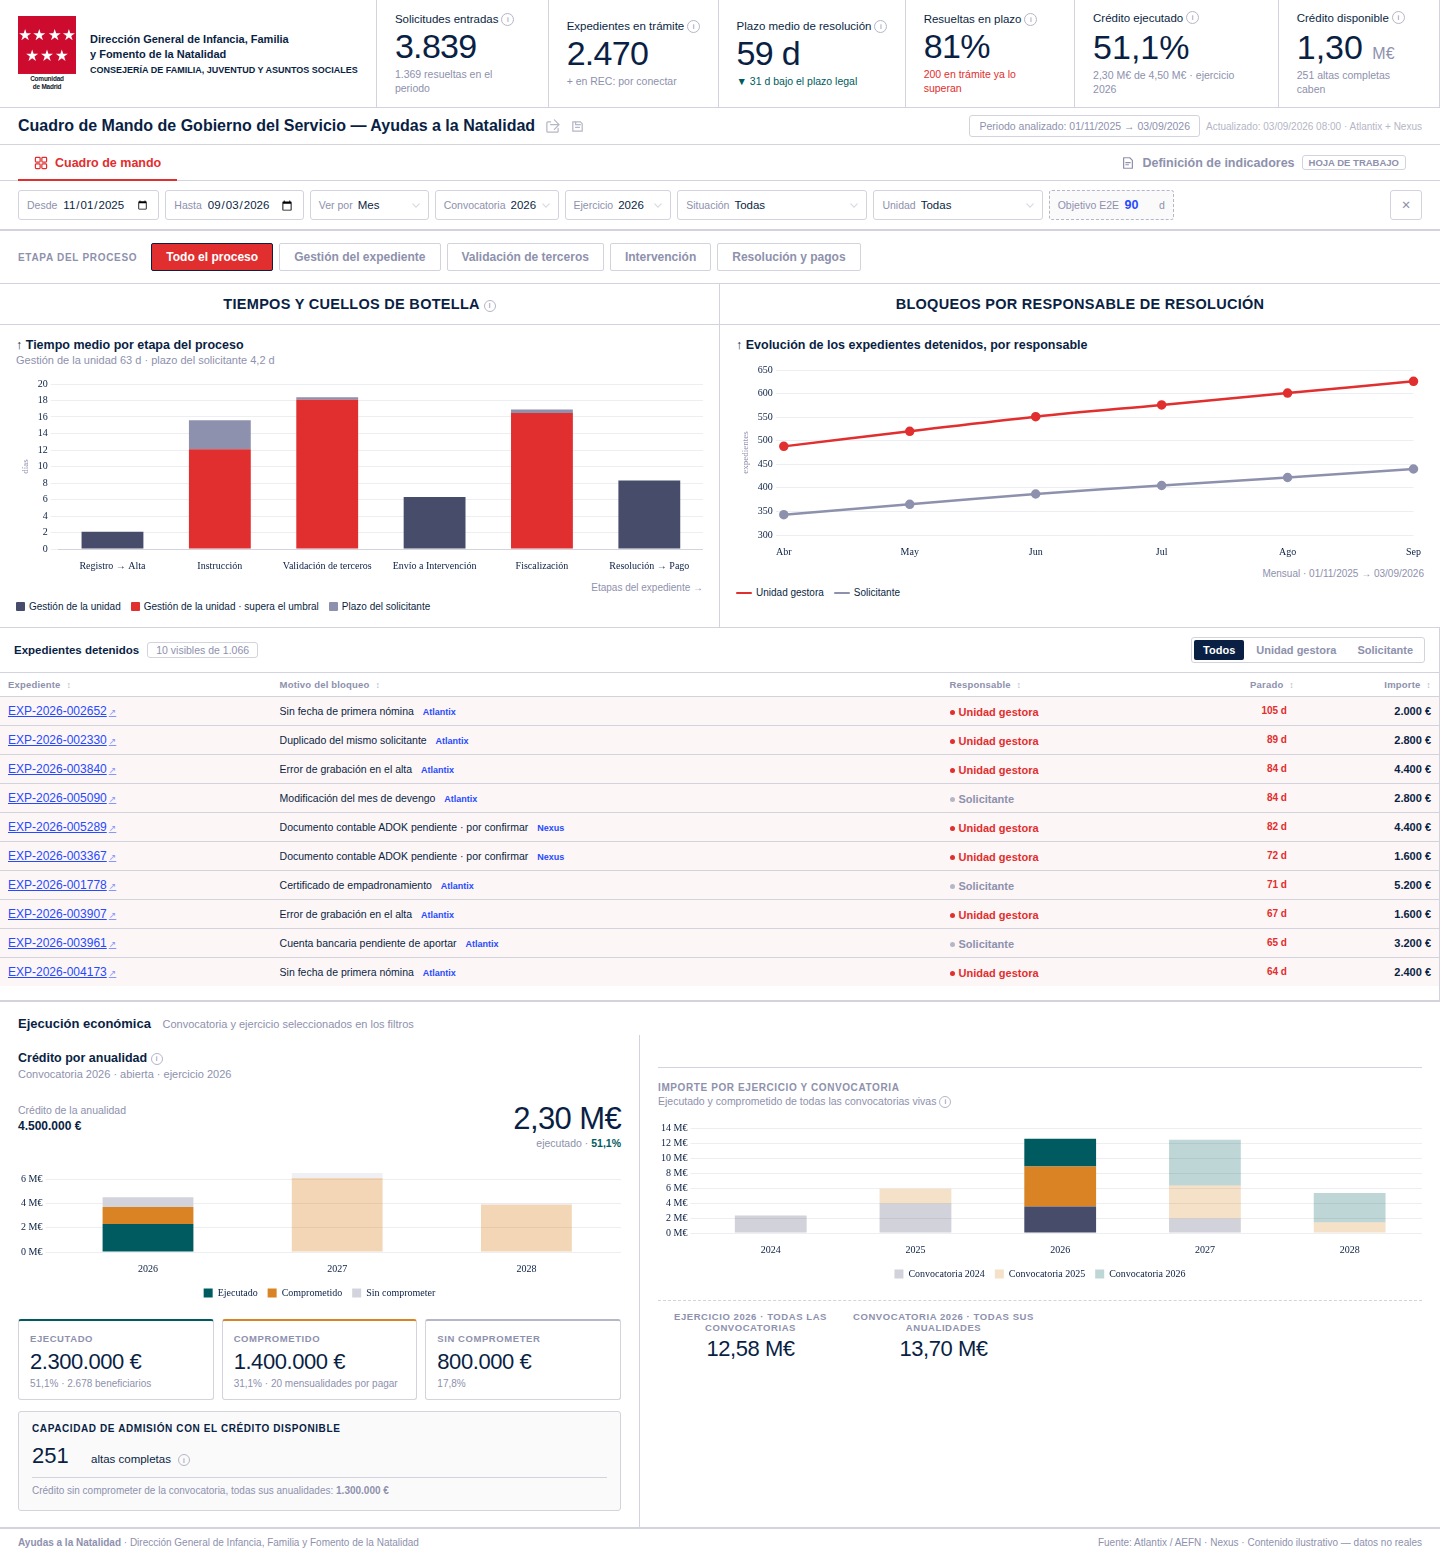
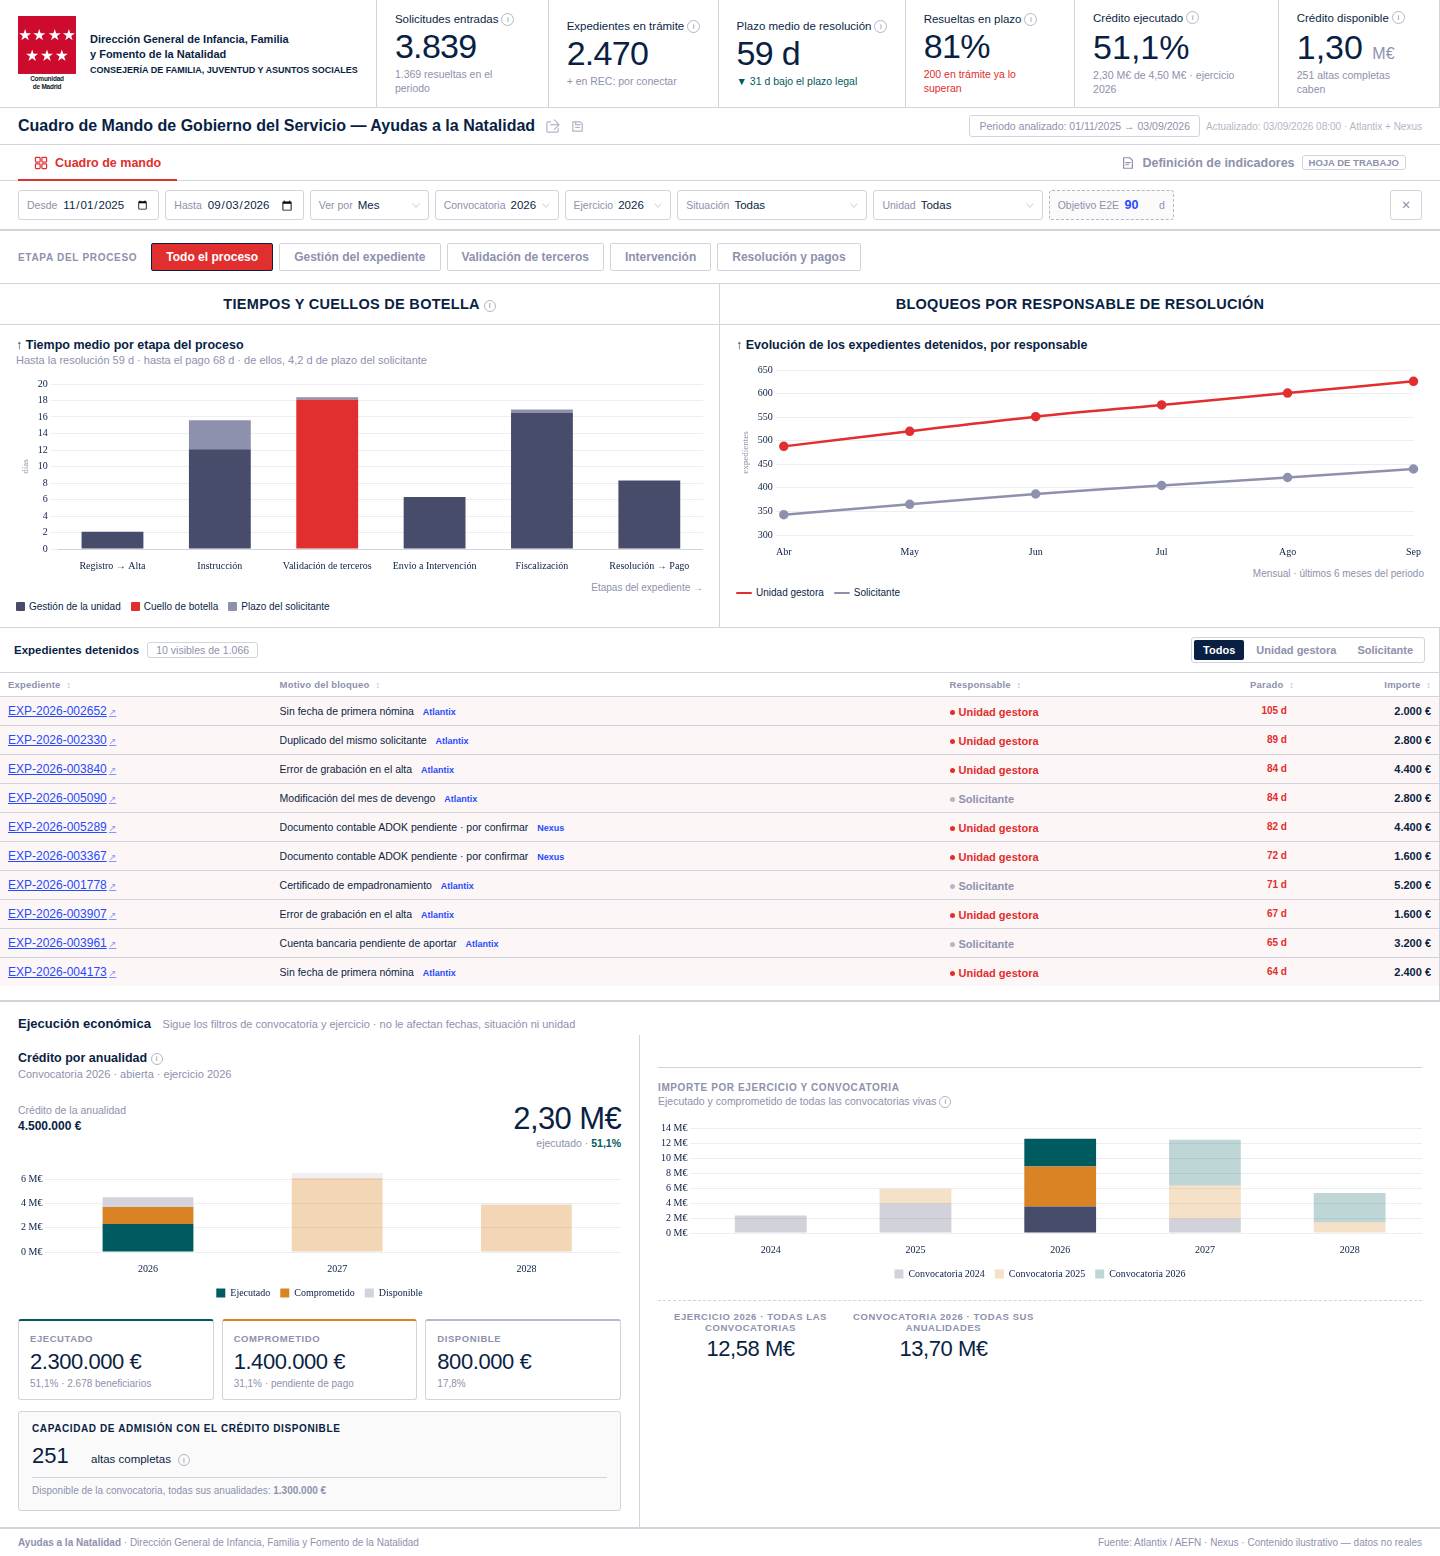
Natalidad v9: auditoría de coherencia (cuello de botella, plazos que cuadran con la cabecera, crédito disponible, hoja de indicadores)
Claude-Session: https://claude.ai/code/session_012PCcGQXYr4PR8xb2pBrhox

diff --git a/mockups/MockupNatalidad_v9.html b/mockups/MockupNatalidad_v9.html
@@ -975,7 +975,7 @@ th.col-focus{background:#FAFAFB!important;color:#0A1F44!important;}
       <div class="chart-xlabel" id="c2X"></div>
       <div class="legend">
         <div class="leg"><div class="leg-sq" style="background:#464C6A;"></div>Gestión de la unidad</div>
-        <div class="leg"><div class="leg-sq" style="background:var(--red);"></div>Gestión de la unidad · supera el umbral</div>
+        <div class="leg"><div class="leg-sq" style="background:var(--red);"></div>Cuello de botella</div>
         <div class="leg"><div class="leg-sq" style="background:#8E91AD;"></div>Plazo del solicitante</div>
       </div>
     </div>
@@ -1093,7 +1093,7 @@ th.col-focus{background:#FAFAFB!important;color:#0A1F44!important;}
 <!-- ══════════ FOOTER ══════════ -->
 </div><!-- /cmBody -->
 
-<div class="blk-ttl">Ejecución económica <span>Convocatoria y ejercicio seleccionados en los filtros</span></div>
+<div class="blk-ttl">Ejecución económica <span>Sigue los filtros de convocatoria y ejercicio · no le afectan fechas, situación ni unidad</span></div>
 
 
   <div class="fbar" id="fbarECO" style="display:none;">
@@ -1414,7 +1414,7 @@ const TIP = {
  'Plazo medio de resolución':'Días desde la entrada en el registro del órgano competente hasta la resolución, sobre los expedientes ya resueltos. Plazo legal: 90 días. Mientras REC no esté conectado se mide desde la recepción en AFN.',
  'Resueltas en plazo':'Expedientes resueltos dentro del plazo legal fijado en los filtros (90 días por defecto). Debajo, los que siguen en trámite y ya lo han superado: son los que más urge mover.',
  'Crédito ejecutado':'Ejecutado sobre el crédito de la anualidad elegida en el filtro Ejercicio, o de toda la convocatoria si no se elige ejercicio. Pendiente de confirmar con gestión económica si «ejecutado» es la obligación reconocida o el pago.',
- 'Crédito disponible':'Crédito de la convocatoria que no está ni pagado ni comprometido. Debajo, cuántas altas completas caben: disponible entre lo que cuesta una ayuda entera (24 mensualidades).',
+ 'Crédito disponible':'Crédito de la convocatoria, en todas sus anualidades, que no está ni ejecutado ni comprometido. Es el mismo dato que «Disponible» en el bloque de ejecución económica. Debajo, cuántas altas completas caben: disponible entre lo que cuesta una ayuda entera (24 mensualidades).',
  'Dentro del objetivo':'Expedientes ya terminados que se resolvieron dentro del objetivo fijado en la barra de filtros. Por defecto es el plazo máximo normativo: 90 días desde la entrada de la solicitud en el registro del órgano competente.',
  'Dentro de objetivo':'Expedientes ya terminados cuyo plazo no superó el objetivo fijado en la barra de filtros. «En riesgo» son los que se acercan a él sin haberlo superado.',
  'Expedientes detenidos':'Expedientes sin ningún cambio de estado desde hace más días de lo razonable para su etapa. Debajo, los que la unidad puede desatascar por sí misma. Los del solicitante son casi todos requerimientos: de 807 requeridos en la revisión, 575 subsanan y 232 desisten.',
@@ -1740,11 +1740,18 @@ function renderCM(){
   const TR_CORTO = ['Registro → Alta','Instrucción','Validación de terceros','Envío a Intervención','Fiscalización','Resolución → Pago'];
   chTiempo.data.labels = trs.map(i => stageKey==='all' ? TR_CORTO[i] : TRAMOS[i]);
   chTiempo.data.datasets[0].data = gestDias;
-  chTiempo.data.datasets[0].backgroundColor = gestDias.map((v,i)=>(v+espDias[i])>=uAl?RED:SLA);
+  const totTr = gestDias.map((v,i)=>v+espDias[i]), maxTr = Math.max(...totTr);
+  chTiempo.data.datasets[0].backgroundColor = totTr.map(v=> v===maxTr ? RED : SLA);
   chTiempo.data.datasets[1].data = espDias;
   chTiempo.update();
-  set('c2Sub','Gestión de la unidad '+(durTot-espTot).toFixed(0)+' d · plazo del solicitante '
-    +espTot.toFixed(1).replace('.',',')+' d');
+  if(stageKey==='all'){
+    const hastaRes = totTr.slice(0,5).reduce((a,b)=>a+b,0);
+    set('c2Sub','Hasta la resolución '+hastaRes.toFixed(0)+' d · hasta el pago '+durTot.toFixed(0)+' d · de ellos, '
+      +espTot.toFixed(1).replace('.',',')+' d de plazo del solicitante');
+  } else {
+    set('c2Sub','Gestión de la unidad '+(durTot-espTot).toFixed(0)+' d · plazo del solicitante '
+      +espTot.toFixed(1).replace('.',',')+' d');
+  }
 
   /* ── sección 3 · detenidos por responsable ── */
   set('s3Kpis', skHtml([
@@ -1879,7 +1886,7 @@ function initAnu(){
     data:{labels:[],datasets:[
       {label:'Ejecutado',data:[],backgroundColor:'#005B60',stack:'a',barPercentage:.6},
       {label:'Comprometido',data:[],backgroundColor:'#D98324',stack:'a',barPercentage:.6},
-      {label:'Sin comprometer',data:[],backgroundColor:'#D3D3DD',stack:'a',barPercentage:.6}]},
+      {label:'Disponible',data:[],backgroundColor:'#D3D3DD',stack:'a',barPercentage:.6}]},
     options:{responsive:true,maintainAspectRatio:false,animation:false,
       plugins:{legend:{position:'bottom',labels:{boxWidth:9,boxHeight:9,padding:10,font:{family:'Inter',size:10},color:'#0A1F44'}},
         tooltip:{callbacks:{title:it=>'Anualidad '+it[0].label,label:c=>' '+c.dataset.label+': '+M2(c.raw*1e6)}}},
@@ -1929,16 +1936,16 @@ function renderConv(){
   const pend=DUR-c.pagadas;
   document.getElementById('cvCards').innerHTML =
     `<div class="bc bc-ej"><span class="bc-l">Ejecutado</span><b>${eur(A.eje)}</b><em>${pct(A.eje)} · ${nfmt(c.cobrando)} beneficiarios</em></div>`+
-    `<div class="bc bc-cm"><span class="bc-l">Comprometido</span><b>${eur(A.com)}</b><em>${pct(A.com)} · ${pend} mensualidades por pagar</em></div>`+
-    `<div class="bc bc-dp"><span class="bc-l">Sin comprometer</span><b>${eur(disp)}</b><em>${pct(disp)}</em></div>`;
+    `<div class="bc bc-cm"><span class="bc-l">Comprometido</span><b>${eur(A.com)}</b><em>${pct(A.com)} · pendiente de pago</em></div>`+
+    `<div class="bc bc-dp"><span class="bc-l">Disponible</span><b>${eur(disp)}</b><em>${pct(disp)}</em></div>`;
   const cap=document.getElementById('cvCap'), foot=document.getElementById('cvCapFoot');
   if(!c.admite){
-    cap.innerHTML = `<div class="cap-row" style="color:var(--g500);">Convocatoria cerrada a altas nuevas: sigue pagando a sus ${nfmt(c.ben)} beneficiarios hasta ${EJER[Math.max(...idx)]}. Quedan <strong style="color:var(--g900)">${eur(dispConv)}</strong> sin comprometer.</div>`;
-    foot.innerHTML = 'Destino del crédito sin comprometer de convocatorias cerradas: por confirmar con gestión económica.';
+    cap.innerHTML = `<div class="cap-row" style="color:var(--g500);">Convocatoria cerrada a altas nuevas: sigue pagando a sus ${nfmt(c.ben)} beneficiarios hasta ${EJER[Math.max(...idx)]}. Quedan <strong style="color:var(--g900)">${eur(dispConv)}</strong> disponibles.</div>`;
+    foot.innerHTML = 'Destino del disponible de convocatorias cerradas: por confirmar con gestión económica.';
   } else {
     cap.innerHTML = `<div class="cap-row"><b>${nfmt(Math.floor(dispConv/COSTE_COMPLETO))}</b> altas completas `+
-      `<i class="ii" data-t="Crédito de la convocatoria sin comprometer (${eur(dispConv)}) entre lo que cuesta una ayuda entera (${MENS} € × ${DUR} = ${eur(COSTE_COMPLETO)}). Importe mensual por confirmar.">i</i></div>`;
-    foot.innerHTML = `Crédito sin comprometer de la convocatoria, todas sus anualidades: <strong>${eur(dispConv)}</strong>`;
+      `<i class="ii" data-t="Disponible de la convocatoria (${eur(dispConv)}) entre lo que cuesta una ayuda entera (${MENS} € × ${DUR} = ${eur(COSTE_COMPLETO)}). Importe mensual por confirmar.">i</i></div>`;
+    foot.innerHTML = `Disponible de la convocatoria, todas sus anualidades: <strong>${eur(dispConv)}</strong>`;
   }
   renderEjer();
   if(typeof renderCM==='function' && document.getElementById('kpiConv')) renderKpiCredito();
@@ -2019,8 +2026,8 @@ const chTiempo = new Chart(document.getElementById('cTiempo'), {
 });
 const chBloq = new Chart(document.getElementById('cBloq'), {
   type:'line', data:{ labels:[], datasets:[
-    { data:[], borderColor:RED, backgroundColor:RED, borderWidth:2.5, pointRadius:3.5, tension:.35, fill:false },
-    { data:[], borderColor:ORA, backgroundColor:ORA, borderWidth:2.5, pointRadius:3.5, tension:.35, fill:false }]},
+    { label:'Unidad gestora', data:[], borderColor:RED, backgroundColor:RED, borderWidth:2.5, pointRadius:3.5, tension:.35, fill:false },
+    { label:'Solicitante', data:[], borderColor:ORA, backgroundColor:ORA, borderWidth:2.5, pointRadius:3.5, tension:.35, fill:false }]},
   options:{ ...baseOpts, interaction:{mode:'index',intersect:false},
     scales:{ x:{...axis, grid:{display:false}}, y:{...axis, title:{display:true,text:'expedientes',font:{family:'Inter',size:9},color:'#8E91AD'}} } }
 });
@@ -2100,7 +2107,7 @@ function legHtml(arr,line){
    [actividad, tiempo medio, tiempo mediano, % de expedientes que pasan por ella, veces por expediente,
     repeticiones por expediente afectado: cerca de 1 = retrabajo repartido; alto = pocos casos que se repiten mucho] */
 const ACT = {
-  gestion: [['Recepción de la solicitud',1.4,1.0,1,1.00,1],['Revisión de documentación',6.2,4.0,1,1.18,1.1],
+  gestion: [['Recepción de la solicitud',1.4,1.0,1,1.00,1],['Revisión de documentación',6.2,4.0,1,1.15,1.0],
             ['Requerimiento',3.1,2.0,.21,1.12,1.2],['Subsanación',18.2,14.0,.15,1.30,1.3],['Desistimiento',10.5,10.0,.06,1.00,1],
             ['Denegación',2.8,2.0,.08,1.00,1],['Propuesta favorable',2.3,1.5,.86,1.09,4.5]],
   terceros: [['Solicitud de alta de tercero',1.8,1.2,1,1.10,6.0],['Respuesta de Nexus',4.2,3.0,1,1.21,1.1],
@@ -2157,6 +2164,7 @@ function vistaEtapa(){
   const todo = stageKey==='all';
   const sec=document.querySelector('#cmBody .sections'); if(sec) sec.style.display = todo ? '' : 'none';
   const blk=document.getElementById('actBlk'); if(blk) blk.style.display = todo ? 'none' : '';
+  const ob=document.getElementById('fselObj'); if(ob) ob.style.display = todo ? '' : 'none';
   if(!todo) renderAct();
 }
 
@@ -2262,7 +2270,7 @@ function onPeriodo(){
               +'la granularidad del eje de la gráfica de evolución, no el rango.';
   }
   const lbl={sem:'Semanal',mes:'Mensual',tri:'Trimestral',anu:'Anual'}[p]||'Mensual';
-  document.getElementById('cBloqX').textContent=lbl+' · '+g(vi)+' → '+g(vf);
+  document.getElementById('cBloqX').textContent=lbl+' · últimos 6 meses del periodo';
   renderCM();
 }
 
@@ -2665,10 +2673,14 @@ const DFILAS = [
  ['Beneficiarias en alta','No contemplado todavía','—','—','Vademécum', 1],
  ['Beneficiarias en mantenimiento','No contemplado todavía','—','—','Vademécum', 1],
  ['Beneficiarias en baja','No contemplado todavía','—','—','Vademécum', 1],
+ ['Desviación de tiempo de una actividad','Tiempo medio menos tiempo mediano de la actividad',
+  'Inicio de la actividad','Fin de la actividad','—', 1],
+ ['% de expedientes con retrabajo','Expedientes que repiten la actividad al menos una vez, sobre los que pasan por ella',
+  'Primera ejecución','Última ejecución','—', 1],
+ ['Días perdidos por retrabajo','Repeticiones de la actividad por su tiempo medio',
+  'Primera ejecución','Última ejecución','—', 1],
  ['Crédito ejecutado','Ejecutado sobre el crédito de la anualidad elegida, o de toda la convocatoria; fase contable (O o P) por confirmar',
   'Documento contable','Pago','Nexus · gestión económica', 1],
- ['Nómina de la convocatoria','Importe de los pagos vivos de la convocatoria',
-  'Resolución','Pago en nómina','Nexus · gestión económica', 1],
 ];
 function dfKey(i,c){ return 'df:'+i+':'+c; }
 function dfLoad(k){ try{ return localStorage.getItem(k)||''; }catch(e){ return ''; } }
